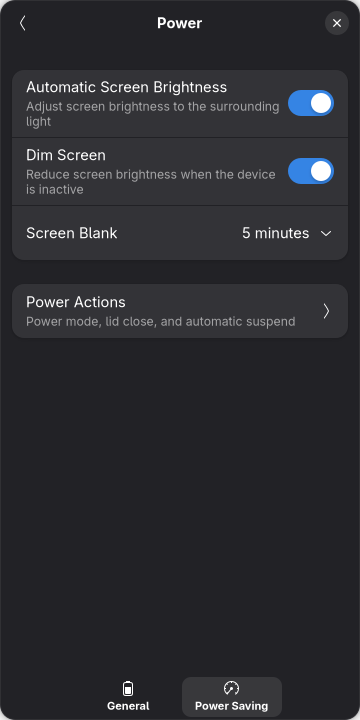
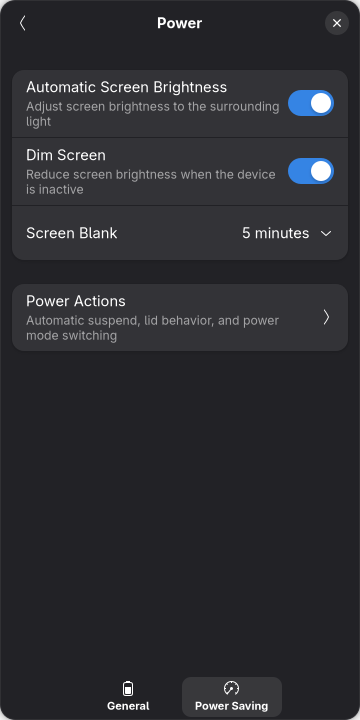
Refine Power Actions entry-row subtitle in mockups and proposal

Changed region(s): [[0.0611, 0.3972, 0.825, 0.4889], [0.8861, 0.4278, 0.9167, 0.4583]]

diff --git a/docs/gnome-power-actions/proposal.md b/docs/gnome-power-actions/proposal.md
@@ -63,15 +63,15 @@ Where the current layout falls short:
 Add a single navigation row in **Power Saving**:
 
 - **Title:** `Power Actions`
-- **Subtitle:** `Power mode, lid close, and automatic suspend`
+- **Subtitle:** `Automatic suspend, lid behavior, and power mode switching`
 
-The copy is concise, neutral across laptops and desktops, and names the exact behaviors controlled inside.
+The copy puts the moved **Automatic Suspend** setting first for discoverability and distinguishes **power mode switching** from the live **Power Mode** control on **General**.
 
 #### Figure 1: Power Saving entry point (desktop)
 
 ![Desktop GNOME Settings showing the Power panel on the Power Saving view with Automatic Screen Brightness, Dim Screen, Screen Blank, and the Power Actions navigation row](images/power-saving.png)
 
-*Description:* Desktop layout of GNOME Settings with **Power** selected in the sidebar and **Power Saving** active in the header switcher. The top boxed list keeps global display controls (**Automatic Screen Brightness**, **Dim Screen**, and **Screen Blank** set to **5 minutes**). Below it is a single navigation row titled **Power Actions**, subtitled **"Power mode, lid close, and automatic suspend"**, with a disclosure chevron.
+*Description:* Desktop layout of GNOME Settings with **Power** selected in the sidebar and **Power Saving** active in the header switcher. The top boxed list keeps global display controls (**Automatic Screen Brightness**, **Dim Screen**, and **Screen Blank** set to **5 minutes**). Below it is a single navigation row titled **Power Actions**, subtitled **"Automatic suspend, lid behavior, and power mode switching"**, with a disclosure chevron.
 
 #### Figure 2: Power Saving entry point (narrow / 360px)
 
